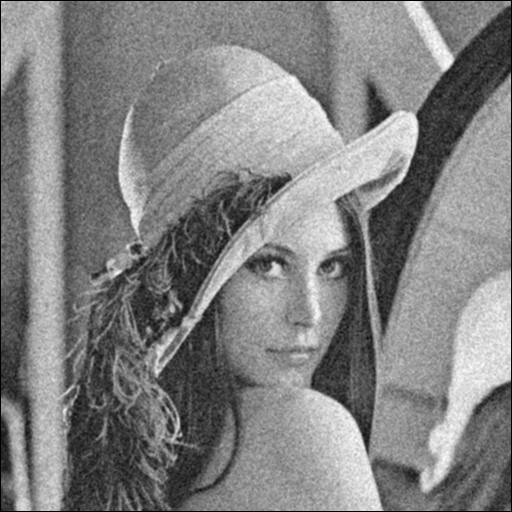
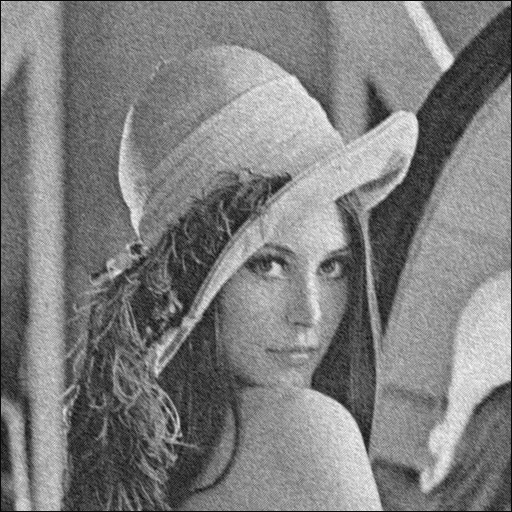
Add ssd calc and new filters

diff --git a/laplacian_denoiser.m b/laplacian_denoiser.m
@@ -3,9 +3,18 @@ a = hw;
 b = hw;
 
 % define 2D gaussian function
-[Y,X] = meshgrid(-a:a, -b:b);
-sigma = 2;
-g = exp(-(X.^2 + Y.^2)/sigma^2);
+% [Y,X] = meshgrid(-a:a, -b:b);
+% sigma = 2;
+% g = exp(-(X.^2 + Y.^2)/sigma^2);
+
+% define a 3x3 filter with all values equal to 1/9
+% g = [1/9, 1/9, 1/9; 1/9, 1/9, 1/9; 1/9, 1/9, 1/9;];
+
+% define a 3x3 gaussial-like filter
+% g = [1, 2, 1; 2, 4, 2; 1, 2, 1;];
+
+% define a random invertible matrix as filter
+g = [1, 2, -1; 2, 1, 2; -1, 2, 1;];
 
 % define laplacian denoiser using theorem 1
 mu = 0.1;

diff --git a/denoise.m b/denoise.m
@@ -13,10 +13,13 @@ a = hw;
 b = hw;
 
 % define 2D gaussian function
-[Y,X] = meshgrid(-a:a, -b:b);
-sigma = 1.5;
-g = exp(-(X.^2 + Y.^2)/sigma^2);
+% [Y,X] = meshgrid(-a:a, -b:b);
+% sigma = 1.5;
+% g = exp(-(X.^2 + Y.^2)/sigma^2);
 % surf(g)
+
+% define a random invertible matrix as filter
+g = [1, 2, -1; 2, 1, 2; -1, 2, 1;];
 
 % convolve the noisy image with the gaussian filter
 for m=a+1:h-a

diff --git a/calculate_ssd.m b/calculate_ssd.m
@@ -1,0 +1,14 @@
+image1 = im2double(imread('img/gaussian_filtered_img.png'));
+image2 = im2double(imread('img/laplacian_filtered_img.png'));
+[h, w] = size(image1);
+
+h = h - 1;
+ssd = 0;
+
+for i = 1:h
+    for j = 1:w
+        diff = (image1(i,j) - image2(i+1,j));
+        diff = diff * 255;
+        ssd = ssd + diff^2;
+    end
+end
